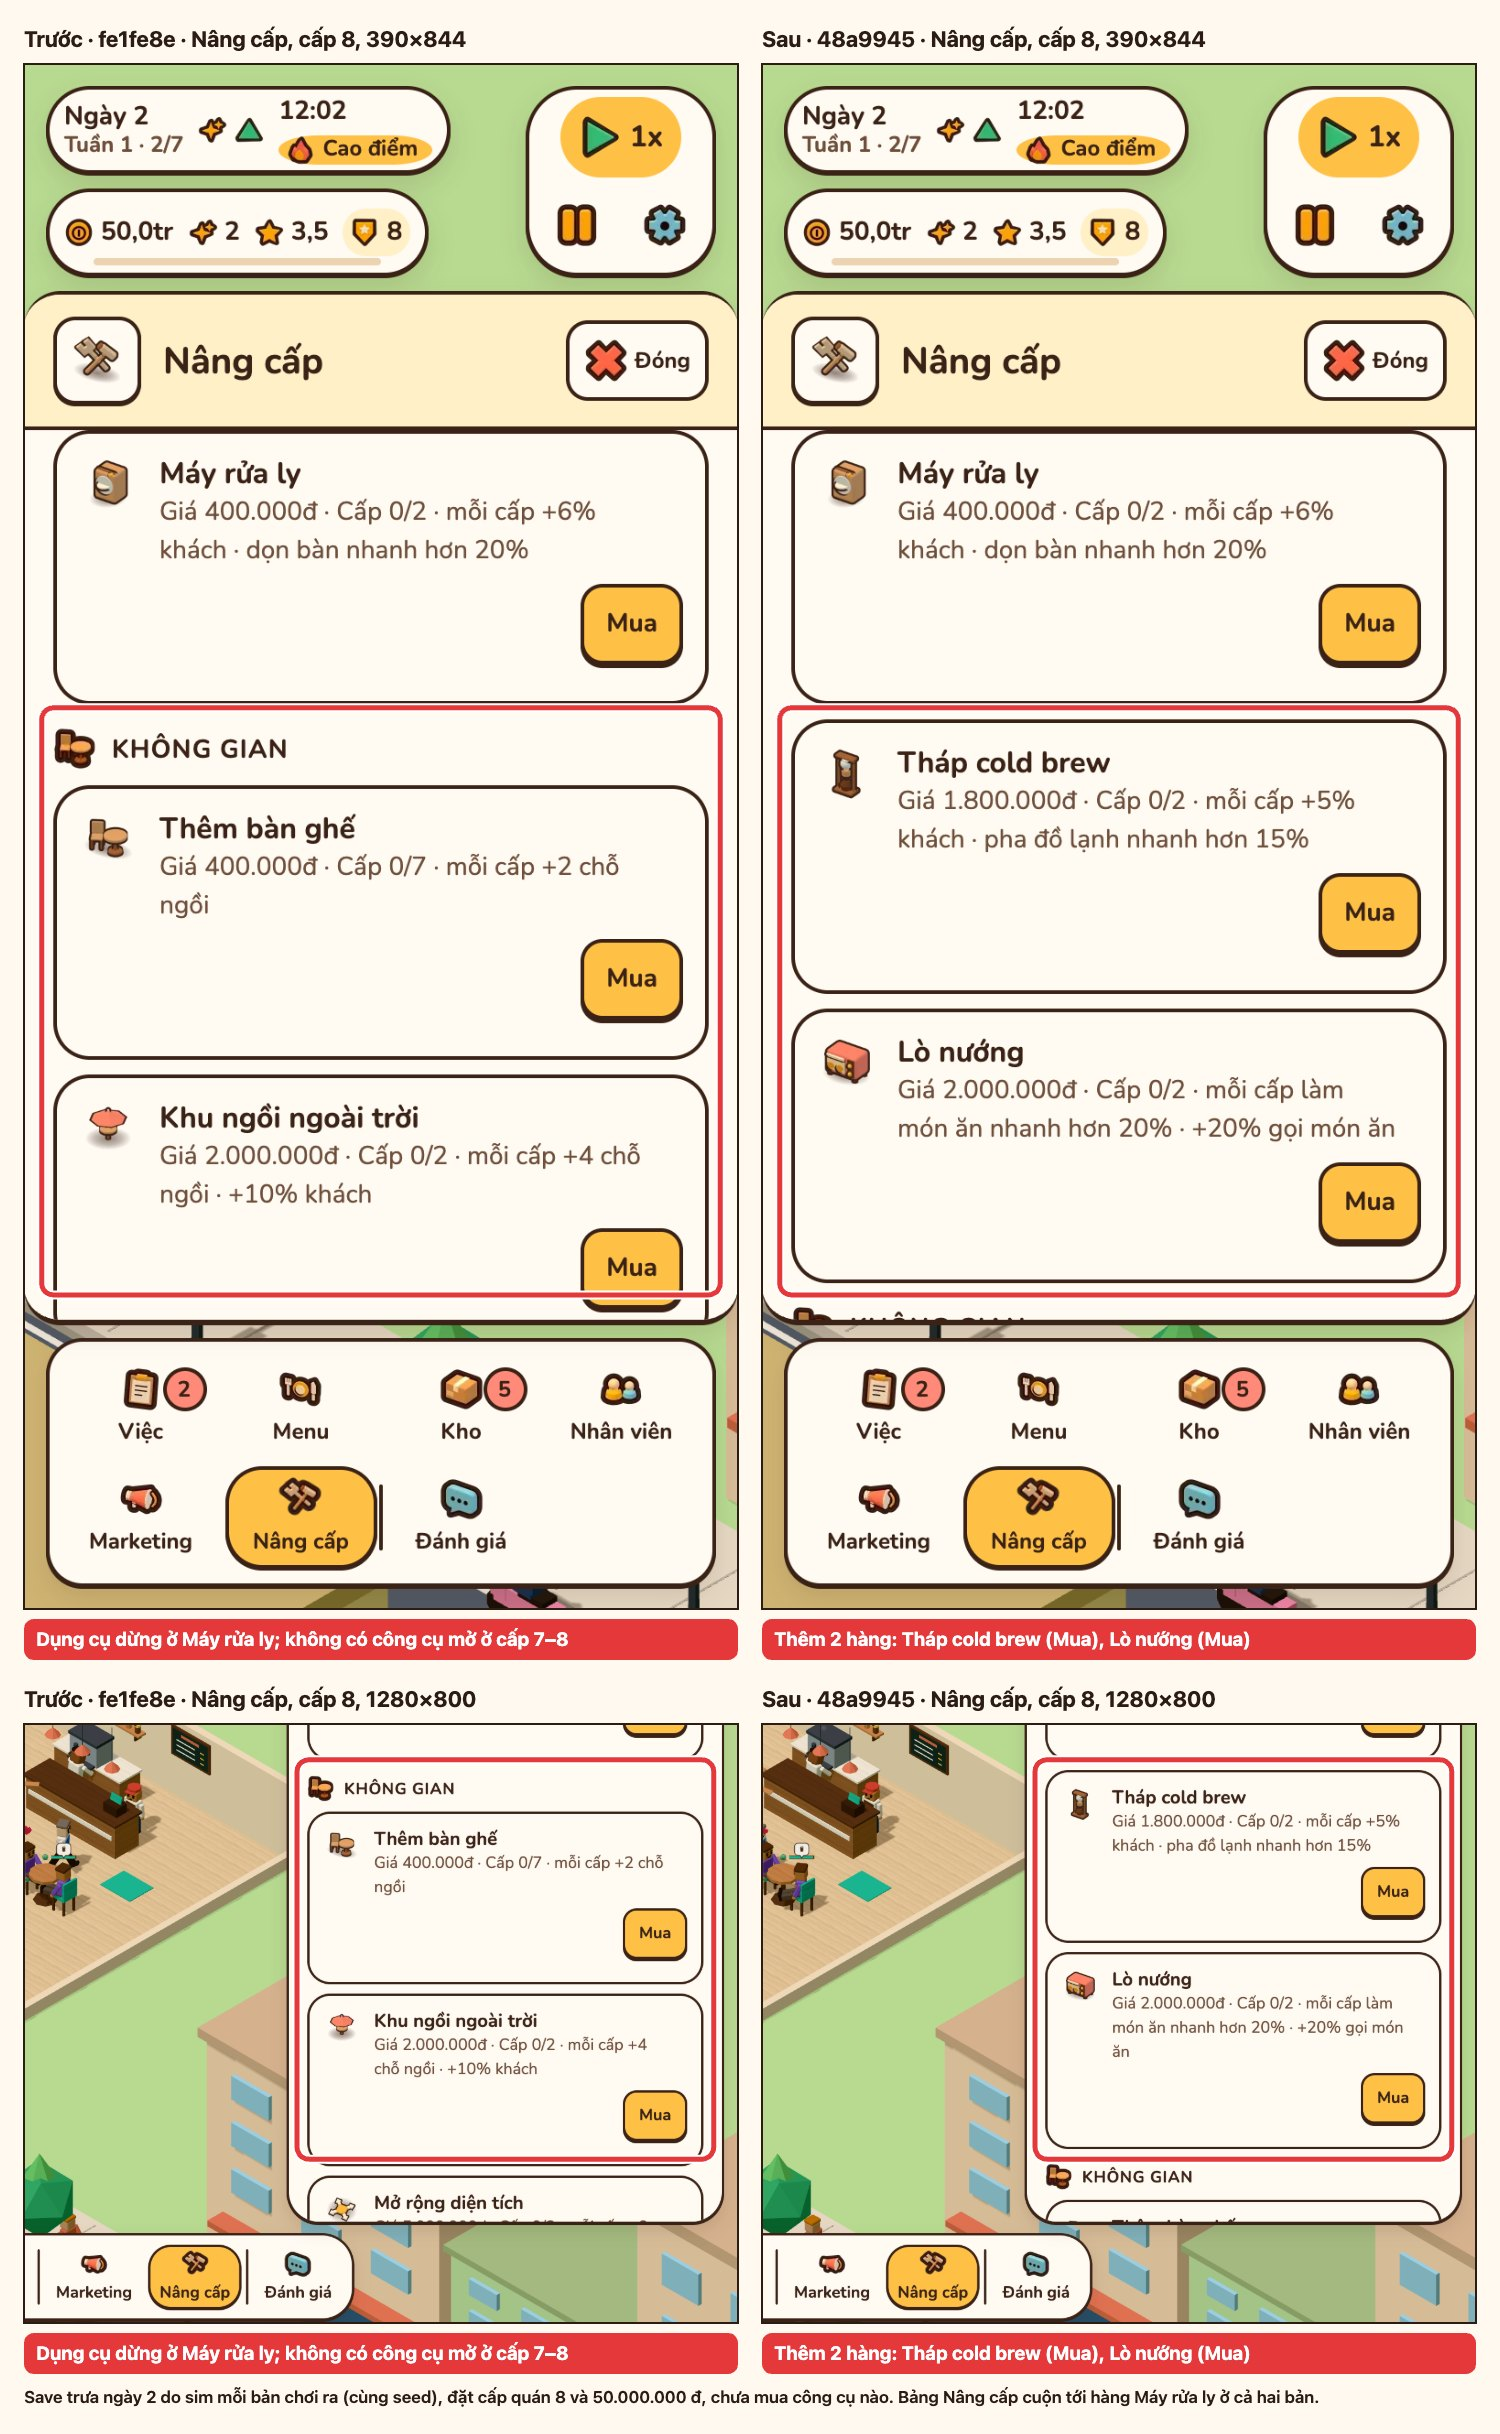
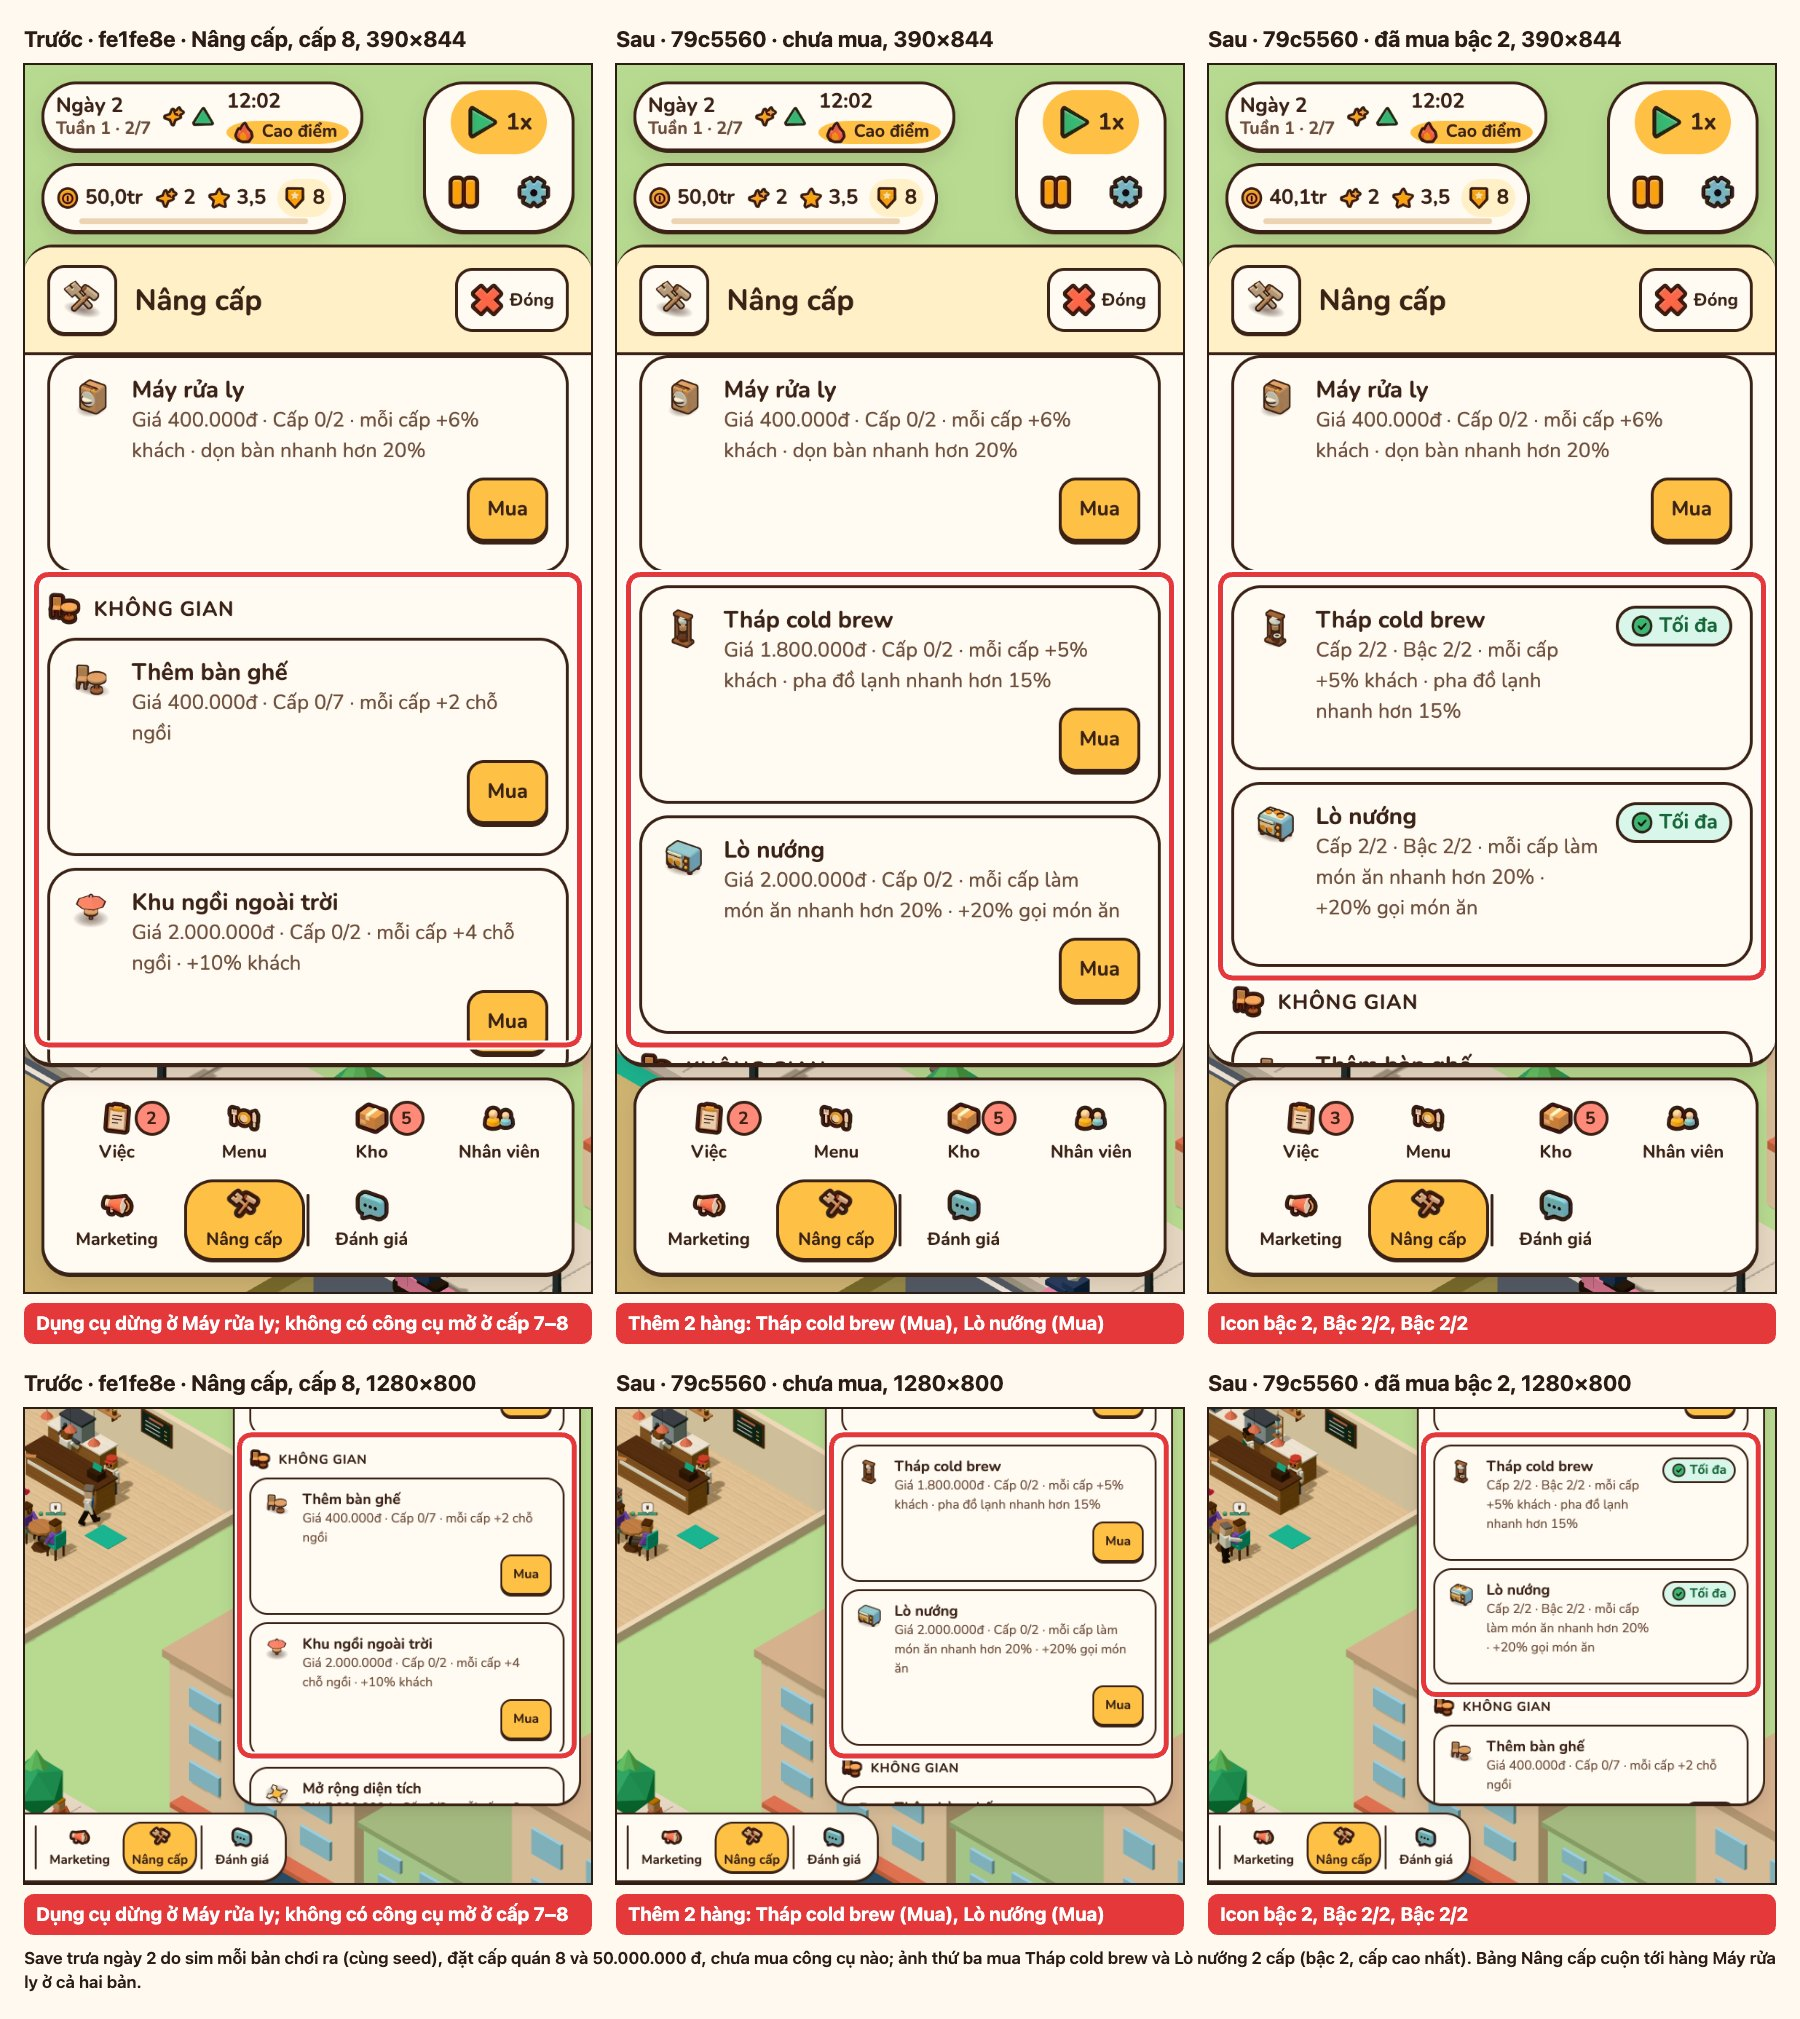
docs(reports): reshoot the P31 Menu and Nâng cấp boards on 79c5560

diff --git a/docs/reports/p31-equipment.md b/docs/reports/p31-equipment.md
@@ -2,7 +2,7 @@
 
 Báo cáo kiểm chứng P31 so với base `fe1fe8e` (v0.11.0, bản P30 đã deploy): kết quả `npm run check`, thời gian tới Main Menu và cảnh 3D, khung hình, layout, nạp save v0–v3, ảnh trước/sau có khoanh. Luật và con số của P31: [spec/p31-equipment.md](../spec/p31-equipment.md).
 
-Số đo và ảnh làm trên commit `48a9945` (HEAD của nhánh tích hợp P31 lúc đo), cộng kịch bản chụp `scripts/scenarios/p31.mjs` và kiểu shot `machines` chưa commit lúc đo (chỉ đổi script, không đổi `src/`). Riêng cảnh `tools-p31` đo trên `f24a267`, còn ảnh quầy sau và nguồn 404 lấy trên `1df0efb` (cùng `src/` với `f24a267`). Máy đo: Apple M2, Chrome 155.0.8059.85, WebGL `ANGLE (Apple, ANGLE Metal Renderer: Apple M2, Unspecified Version)` ở mọi lệnh.
+Số đo và ảnh làm trên commit `48a9945` (HEAD của nhánh tích hợp P31 lúc đo), cộng kịch bản chụp `scripts/scenarios/p31.mjs` và kiểu shot `machines` chưa commit lúc đo (chỉ đổi script, không đổi `src/`). Riêng cảnh `tools-p31` đo trên `f24a267`, ảnh quầy sau và nguồn 404 lấy trên `1df0efb` (cùng `src/` với `f24a267`), ảnh Nâng cấp và Menu chụp lại trên `79c5560`. Máy đo: Apple M2, Chrome 155.0.8059.85, WebGL `ANGLE (Apple, ANGLE Metal Renderer: Apple M2, Unspecified Version)` ở mọi lệnh.
 
 | Phần | Lệnh |
 | --- | --- |
@@ -144,12 +144,12 @@ Khung dài nhất của P31 trong từng lần là 24 ms (máy bàn, lần 5).
 
 ## 6. Ảnh
 
-Bên trái build `fe1fe8e`, bên phải P31 (`48a9945`, quầy sau `1df0efb`), cùng save do sim của từng bản chơi ra (cùng seed), đặt cấp quán 8 và 50.000.000 đ. Chụp bằng `npm run media -- --scenario p31`, thoát mã 0, không có dòng `!!`. Vòng đỏ là chỗ đổi.
+Bên trái build `fe1fe8e`, bên phải P31: Nâng cấp và Menu chụp lại trên `79c5560` (sau các bản sửa ở [mục dưới](#sửa-nhãn-và-icon-sau-khi-đo)), quầy sau trên `1df0efb`. Cùng save do sim của từng bản chơi ra (cùng seed), đặt cấp quán 8 và 50.000.000 đ. Chụp bằng `npm run media -- --scenario p31`, thoát mã 0, không có dòng `!!`. Vòng đỏ là chỗ đổi.
 
 | Mục | Đã đổi gì | Ảnh |
 | --- | --- | --- |
-| Nâng cấp, cấp 8, 390×844 và 1280×800 | Cuối nhóm Dụng cụ thêm 2 hàng: Tháp cold brew (1.800.000 đ, cấp 0/2) và Lò nướng (2.000.000 đ, cấp 0/2), nút Mua. Base: sau Máy rửa ly là nhóm Không gian | ![Nâng cấp](p31-equipment/upgrades-lv8-before-after-p31.jpg) |
-| Menu, 390×844 và 1280×800 | Chưa mua: Cold brew và Bánh quy sô-cô-la tắt, công tắc khoá, nhãn "Cần Tháp cold brew", "Cần Lò nướng" mở Nâng cấp. Mua bậc 1 hai công cụ: cả hai món tự bật, nhãn "Cần …" biến mất (Bánh quy còn nhãn kho "Thiếu Bột bánh"). Base: Menu dừng ở Bánh ngọt | ![Menu](p31-equipment/menu-cold-brew-before-after-p31.jpg) |
+| Nâng cấp, cấp 8, 390×844 và 1280×800 | Chưa mua: cuối nhóm Dụng cụ thêm 2 hàng, Tháp cold brew (1.800.000 đ, cấp 0/2) và Lò nướng (2.000.000 đ, cấp 0/2), có icon mới và nút Mua. Mua 2 cấp: icon bậc 2 (tháp có ly cold brew, lò thép), dòng "Cấp 2/2 · Bậc 2/2", nhãn Tối đa. Base: sau Máy rửa ly là nhóm Không gian | ![Nâng cấp](p31-equipment/upgrades-lv8-before-after-p31.jpg) |
+| Menu, 390×844 và 1280×800 | Chưa mua: Cold brew và Bánh quy sô-cô-la tắt, công tắc khoá, nhãn "Cần Tháp cold brew", "Cần Lò nướng" có icon cảnh báo như nhãn "Thiếu …" và mở Nâng cấp. Mua bậc 1 hai công cụ: cả hai món tự bật, nhãn "Cần …" biến mất (Bánh quy còn nhãn kho "Thiếu Bột bánh +2"). Base: Menu dừng ở Bánh ngọt | ![Menu](p31-equipment/menu-cold-brew-before-after-p31.jpg) |
 | Quầy sau, 1280×800, chụp trên `1df0efb` | Hàng đầu: Lò nướng bên trái, Tháp cold brew cạnh máy espresso (240 px mỗi mét). Hai hàng sau: cận cảnh lò và tháp (600 px mỗi mét). Ảnh base và bậc 1 khoanh cả máy; ảnh bậc 2 khoanh phần thêm: bục thép dưới máy, khay hai bánh quy trên lò, ly cold brew trước tháp. Ba đèn thả trên quầy trước bị ẩn chỉ khi chụp (156 tam giác, `clearBox`) để không che quầy sau. Base: chỗ đó trống | ![Quầy sau](p31-equipment/back-counter-before-after-p31.jpg) |
 
 Tháp cold brew và Lò nướng có `maxLevel` 2 và không có trong `maxLevelBonus` của cấp quán 7–10 (`src/sim/data/levels.ts`), nên cấp cao nhất là 2 và bậc hình cao nhất là bậc 2. Trong game không có bậc 3 của hai công cụ này; dòng kế hoạch ghi "bậc 3 (cấp thưởng)" là sai. Nhánh bậc 3 của hai máy trong `src/render/scene/equipment.ts` (sao vàng) không bao giờ được vẽ.
